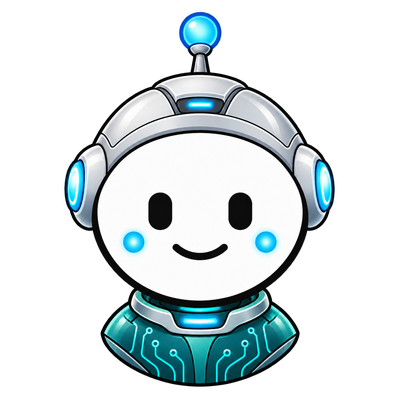
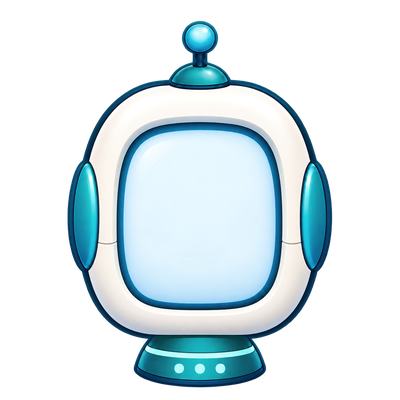
Grundschulmax: neuer Bit (KI-Tutor) mit eigenem, animiertem Gesicht
Claude-Session: https://claude.ai/code/session_01Rrx3BPHrRPsxut6ZYjGyzy

diff --git a/grundschulmax/index.html b/grundschulmax/index.html
@@ -1030,6 +1030,19 @@ footer nav a{margin:0;text-decoration:none;font-weight:600}
 .hero .stage{max-width:230px}
 .hero .teamrow .tcap{order:-1}
 @media (max-width:600px){.hero .teamrow{order:3;margin-top:6px}.hero .ctas{order:4;margin-top:16px}.hero .stage{max-width:190px}}
+.tut.drawn .eye{animation:blinkd 5s infinite;transform-box:view-box}
+@keyframes blinkd{0%,93%,100%{transform:scaleY(1)}95.5%{transform:scaleY(.08)}}
+.tut.drawn.talk .sm{display:none}
+.tut.drawn .brow{transition:transform .3s}
+.dmax.think .tut.drawn .brow{transform:translateY(-3px)}
+.hav .tut{width:100%}
+.tzb{width:84px;height:84px;border-radius:50%;background:#fff;box-shadow:0 0 0 3px #3fb36d;overflow:hidden;display:block}
+.tzb .tut{width:100%}
+.lic .ph .tut{width:100%}
+@media (max-width:600px){.tzb{width:64px;height:64px}}
+.tz.ok .tzi .tzb{position:relative}
+.tz.ok .tzi .tzb img{width:100%!important;height:100%!important;box-shadow:none;border-radius:0;object-fit:contain;object-position:center;background:none}
+.tz.ok .tzi .tzb svg{position:absolute;inset:0;right:auto;top:0;left:0;font-size:inherit;background:none;padding:0;width:100%;height:100%;border-radius:0}
 </style>
 </head>
 <body>
@@ -1212,7 +1225,7 @@ footer nav a{margin:0;text-decoration:none;font-weight:600}
             <div class="lt">KI-Führerschein · Stufe 1</div>
             <div class="ln">Lena, 2. Klasse</div>
             <div class="lb">
-              <div class="ph"><img src="/grundschulmax/tut-bit.png" alt="" style="width:110%;margin-top:4%"></div>
+              <div class="ph" data-tut="bit"></div>
               <div><small>Geprüft von Bit</small><b>Verstehen · Prüfen · Denken · Privat</b><div class="lst"><svg class="i"><use href="#i-star"/></svg><svg class="i"><use href="#i-star"/></svg><svg class="i"><use href="#i-star"/></svg><svg class="i"><use href="#i-star"/></svg></div></div>
             </div>
           </div>
@@ -1491,7 +1504,15 @@ function voice(k, force) {
 const demoVisible = () => true;
 /* Tutoren: Bild + Augen/Mund zum Animieren (Blinzeln, Sprechen) */
 const TUTOR = {"max": {"n": "Max", "eyes": [[135.2, 183.6, 28.9, 46.1], [238.3, 183.6, 28.9, 46.1]], "mouth": [167.2, 252.3, 67.2, 18.8]}, "mila": {"n": "Mila", "eyes": [[155.7, 230.9, 21.7, 35.7], [230.9, 230.9, 21.4, 35.7]], "mouth": [174.2, 275.9, 58.4, 18.2]}, "emma": {"n": "Emma", "eyes": [[151.8, 198.7, 21.1, 33.5], [227.4, 198.7, 21.4, 32.9]], "mouth": [175.1, 245.9, 50.4, 14.7]}, "claude": {"n": "Claude", "eyes": [[149.9, 190.7, 23.3, 37.3], [228.4, 190.4, 23.3, 37.6]], "mouth": [178.6, 253.3, 42.1, 13.1]}, "frieda": {"n": "Frieda", "eyes": [[146.4, 191.1, 22.3, 35.1], [226.8, 191.1, 22.3, 35.1]], "mouth": [171.9, 238.6, 52.6, 15.6]}, "bit": {"n": "Bit", "eyes": [[148.6, 192.7, 23.3, 37.3], [228.7, 192.7, 23.3, 37.3]], "mouth": [172.6, 244.0, 55.2, 15.9]}};
+TUTOR.bit = { n: 'Bit', draw: true };
+function bitFace() {
+  const eye = (cx) => `<g class="eye" style="transform-origin:${cx}px 224px"><rect x="${cx - 10.5}" y="210" width="21" height="27" rx="10.5" fill="#0f2f4d"/><circle cx="${cx + 4}" cy="217" r="2.6" fill="#5fe0f2"/></g>`;
+  return `<g class="brow"><path d="M146 199 Q157 194.5 169 197" fill="none" stroke="#2bb6d3" stroke-width="4.2" stroke-linecap="round"/><path d="M231 197 Q243 194.5 254 199" fill="none" stroke="#2bb6d3" stroke-width="4.2" stroke-linecap="round"/></g>${eye(158)}${eye(242)}
+    <path class="sm" d="M183 254 Q200 266 218 253" fill="none" stroke="#0f2f4d" stroke-width="4.4" stroke-linecap="round"/>
+    <g class="mo"><g class="om" style="transform-origin:200px 254px"><path d="M187 252 Q200 249 213 252 Q211 266 200 267 Q189 266 187 252Z" fill="#0f2f4d"/><path d="M193 262 Q200 259 207 262 Q204 266 200 266 Q196 266 193 262Z" fill="#2bb6d3"/></g></g>`;
+}
 function tutorHTML(id) {
+  if (TUTOR[id].draw) return `<span class="tut drawn" data-t="${id}"><img src="/grundschulmax/tut-${id}.png" alt="${TUTOR[id].n}"><svg viewBox="0 0 400 400">${bitFace()}</svg></span>`;
   const t = TUTOR[id], lid = t.eyes.map(([x, y, w, h]) => `<ellipse cx="${x + w / 2}" cy="${y + h / 2}" rx="${w / 2 + 4}" ry="${h / 2 + 4}" fill="#fff"/><path d="M${x - 2} ${y + h * .55} q${w / 2 + 2} ${h * .28} ${w + 4} 0" fill="none" stroke="#111" stroke-width="5" stroke-linecap="round"/>`).join('');
   const [mx, my, mw, mh] = t.mouth, cx = mx + mw / 2, cy = my + mh / 2;
   const mo = `<ellipse cx="${cx}" cy="${cy}" rx="${mw / 2 + 5}" ry="${mh / 2 + 4}" fill="#fff"/><g class="om" style="transform-origin:${cx}px ${cy - mh * .2}px"><path d="M${cx - mw * .36} ${cy - mh * .25} Q${cx} ${cy - mh * .45} ${cx + mw * .36} ${cy - mh * .25} Q${cx + mw * .3} ${cy + mh * 1.5} ${cx} ${cy + mh * 1.55} Q${cx - mw * .3} ${cy + mh * 1.5} ${cx - mw * .36} ${cy - mh * .25}z" fill="#2a1414"/><ellipse cx="${cx}" cy="${cy + mh * 1.05}" rx="${mw * .18}" ry="${mh * .38}" fill="#f47ba0"/></g>`;
@@ -2278,7 +2299,7 @@ const vkRotNo = vk('Das stimmt doch! Lies nochmal genau.'), vkRotMiss = vk('Ein 
 function gRot(T) {
   gs.className = 'gs g-rot';
   const Lines = ROT[G()], nErr = Lines.filter((l) => l[1]).length; let found = 0, done = false;
-  gs.innerHTML = `<div class="heft"><div class="hh"><span class="hav"><img src="/grundschulmax/tut-bit.png" alt=""></span><b>Hausaufgaben von Bit</b><span class="pen">${I('pen')}Rotstift</span></div><div class="lines" id="ln"></div></div><button class="b3d o fertig" id="rf">${I('check')}Ich bin fertig</button>`;
+  gs.innerHTML = `<div class="heft"><div class="hh"><span class="hav">${tutorHTML('bit')}</span><b>Hausaufgaben von Bit</b><span class="pen">${I('pen')}Rotstift</span></div><div class="lines" id="ln"></div></div><button class="b3d o fertig" id="rf">${I('check')}Ich bin fertig</button>`;
   const ln = $('#ln');
   Lines.forEach((l, i) => {
     const row = document.createElement('button'); row.className = 'hl'; row.style.animationDelay = i * .35 + 's';
@@ -2322,7 +2343,7 @@ function gTresor(T) {
   gs.className = 'gs g-tres';
   const C = shuf(TRESOR[G()]); let i = 0, lock = true;
   gs.innerHTML = `<div class="tcard" id="tc"></div>
-    <div class="tgo"><button class="tz ok" data-v="0"><span class="tzi"><img src="/grundschulmax/tut-bit.png" alt="">${I('chat')}</span><b>Darf Bit wissen</b></button><button class="tz safe" data-v="1"><span class="tzi" id="sf">${SAFE(false)}</span><b>Bleibt im Tresor</b></button></div>`;
+    <div class="tgo"><button class="tz ok" data-v="0"><span class="tzi"><span class="tzb">${tutorHTML('bit')}</span>${I('chat')}</span><b>Darf Bit wissen</b></button><button class="tz safe" data-v="1"><span class="tzi" id="sf">${SAFE(false)}</span><b>Bleibt im Tresor</b></button></div>`;
   function show() { const tc = $('#tc'); tc.innerHTML = `<small>Würdest du das einer KI erzählen?</small><b>${C[i][0]}</b>`; tc.style.transform = ''; tc.style.opacity = 1; restart(tc, 'in'); lock = false; }
   $$('.tz', gs).forEach((b) => (b.onclick = () => {
     if (lock) return; const v = +b.dataset.v, c = C[i];
@@ -2602,6 +2623,8 @@ addEventListener('scroll', () => { const v = valueAt.getBoundingClientRect().top
 new IntersectionObserver(([e]) => { gameIn = e.isIntersecting; upd(); }, { threshold: 0.05 }).observe(demo);
 window.VOICE_LINES = () => [...VL.entries()].map(([k, v]) => ({ k, ...v }));
 $('#fsnapi').onclick = () => $('#fsnap').click();
+
+$$('[data-tut]').forEach((el) => (el.innerHTML = tutorHTML(el.dataset.tut)));
 </script>
 </body>
 </html>
